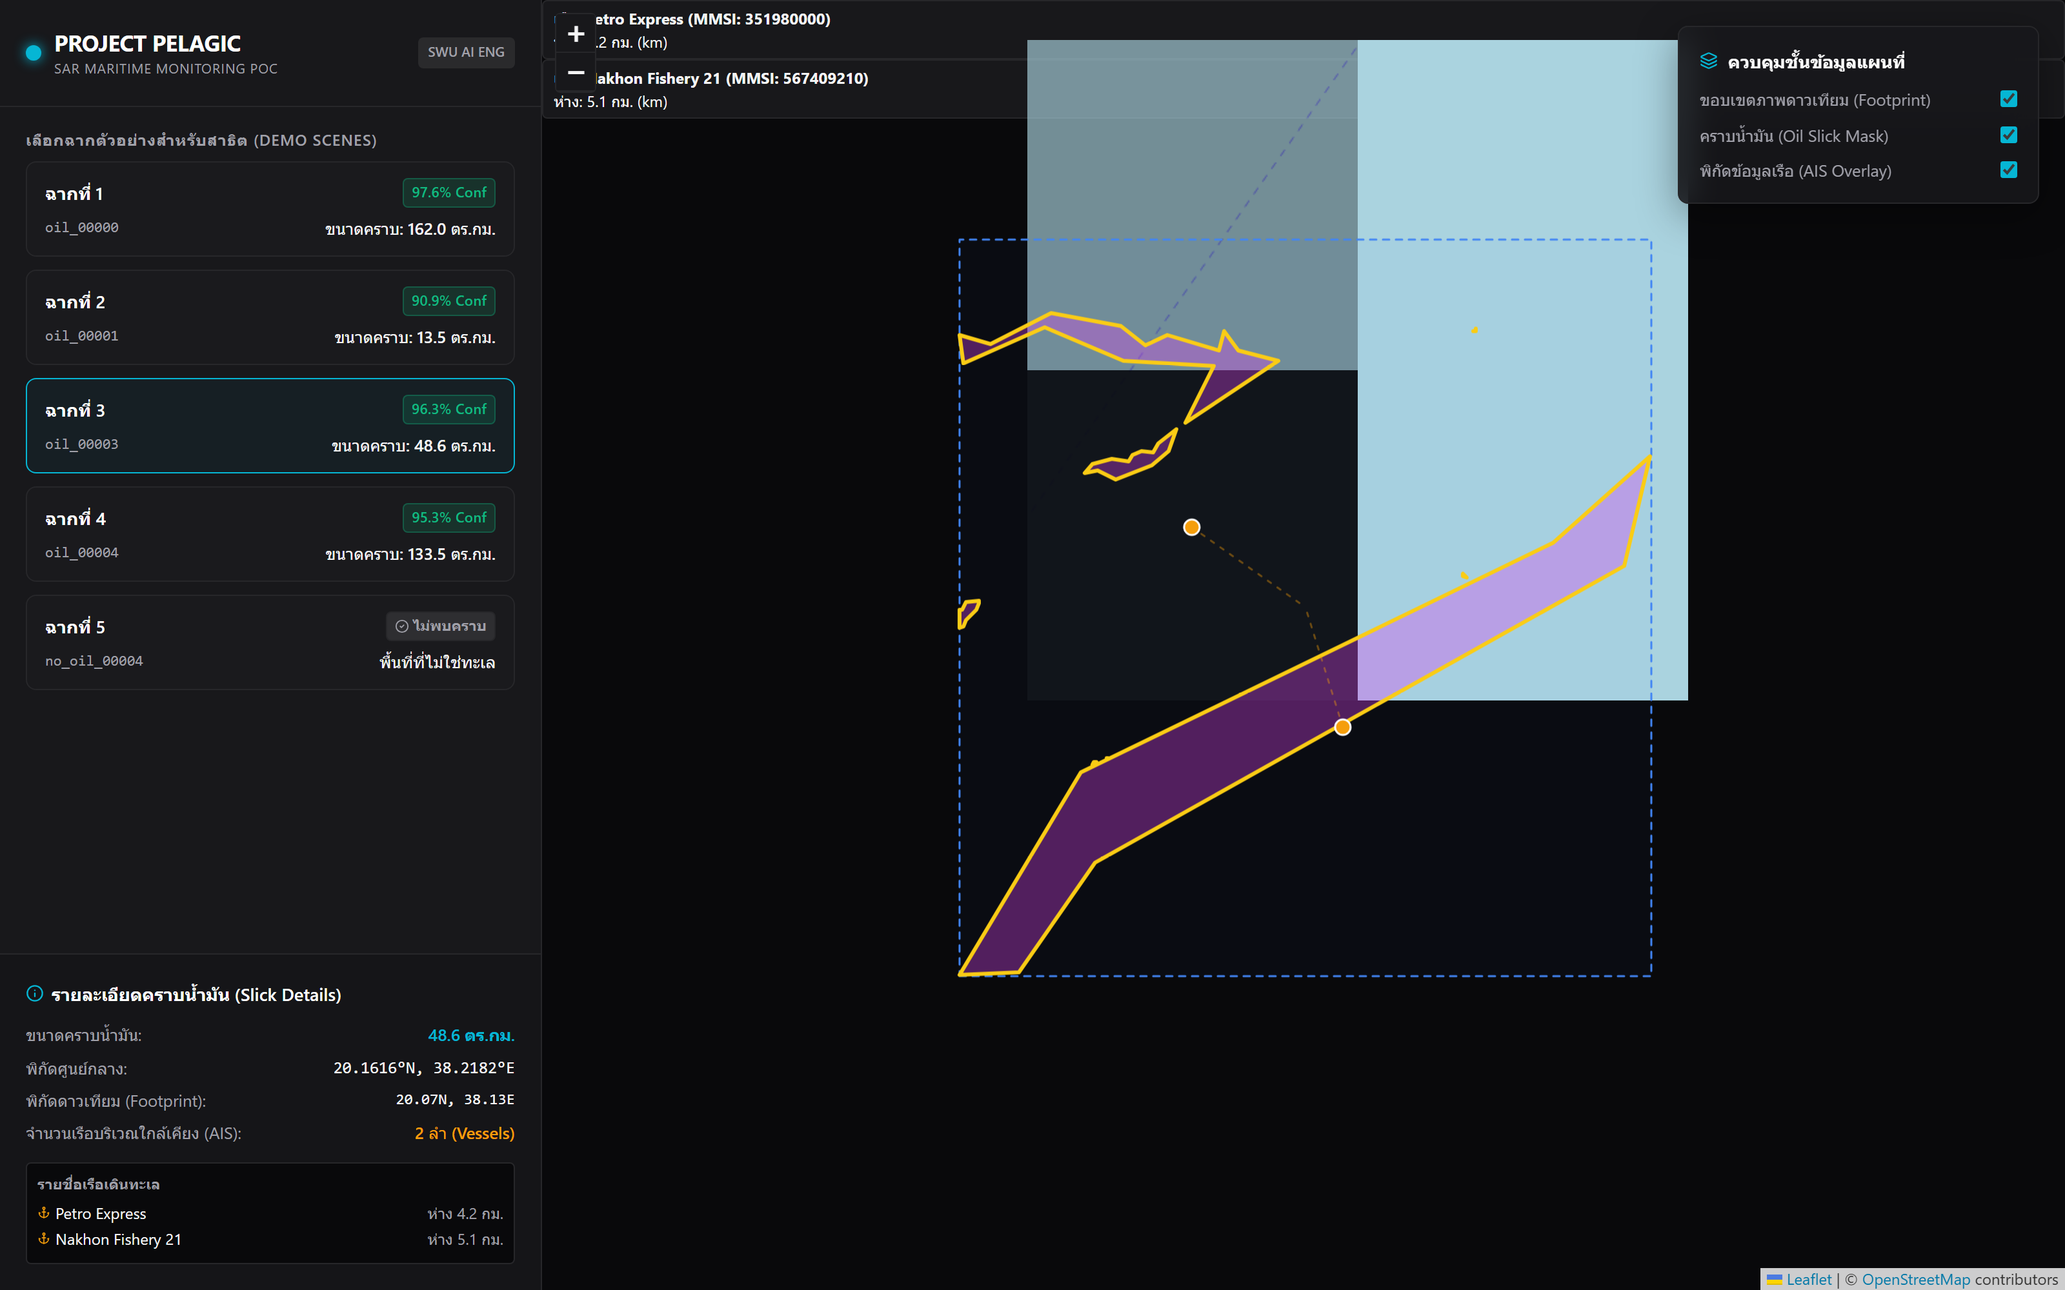
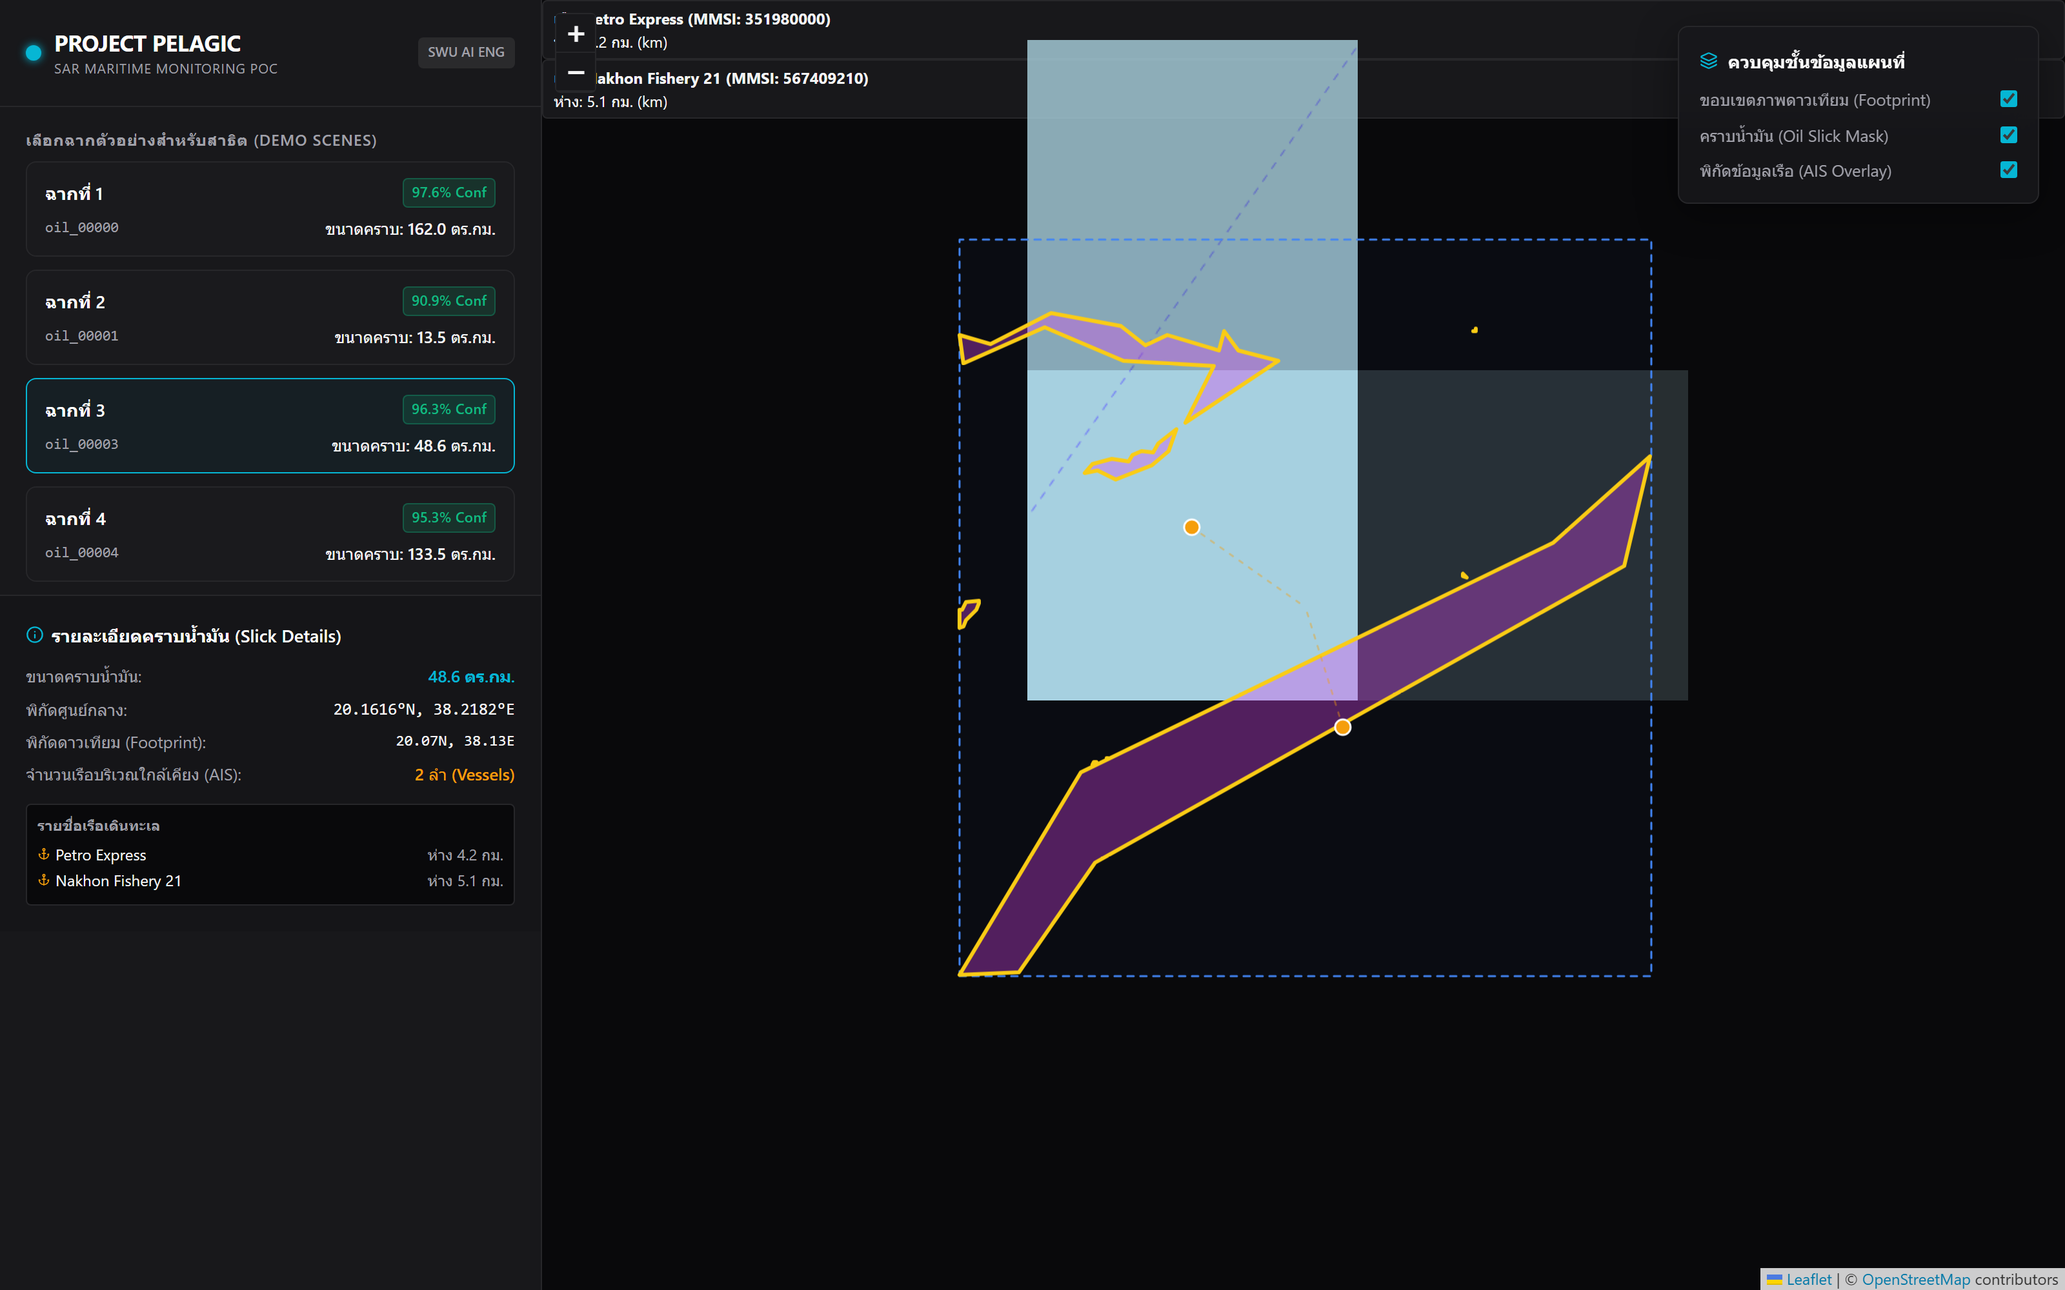
Drop to 4-scene oil-only demo lineup
Final decision after the no_oil investigation (Track I): every no_oil
holdout scene is either genuinely land (no_oil_00002/3/4/6/7/8/9), a live
false positive on real water (no_oil_00000/1), or a broken/corrupted file
(no_oil_00005) -- no clean "real water, correctly suppressed" scene exists
in this holdout set. Rather than show a land scene or a live false
positive, the live demo is now oil_00000/1/3/4 only.

- DEMO_SCENES trimmed to the 4 oil scenes; removed the now-dead no-oil UI
  branches (isNoOil text, the "non-maritime abstains" copy, the "no slick
  found" card badge state, the now-unused CheckCircle2 icon import).
- Restructured the sidebar so the scene list and details panel share one
  scrollable flex region -- with only 4 cards the list no longer fills the
  old flex:1 area, which was opening a gap between the last card and the
  details panel that read as "something's missing"; leftover space now
  settles naturally below the details panel instead.
- Verified all 4 scenes end-to-end (correct area badges, coordinates,
  fitBounds contour framing, no console errors) and re-captured the Track H
  fallback screenshots against the updated 4-card layout; dropped the
  no_oil_00004 fallback screenshot entirely rather than keeping it
  mislabeled or confusing during a live-demo emergency.
- docs/deck_assets/MANIFEST.md and docs/status.md updated to reflect the
  4-scene lineup, keeping the no_oil investigation writeup intact as the
[…]

diff --git a/frontend/src/App.jsx b/frontend/src/App.jsx
@@ -1,28 +1,26 @@
 import React, { useState, useEffect } from 'react';
 import { MapContainer, TileLayer, Polygon, CircleMarker, Polyline, useMap } from 'react-leaflet';
-import { ShieldAlert, Layers, Anchor, Loader2, Info, CheckCircle2 } from 'lucide-react';
+import { ShieldAlert, Layers, Anchor, Loader2, Info } from 'lucide-react';
 import 'leaflet/dist/leaflet.css';
 
 const API_BASE = 'http://localhost:8000';
 
-// The 5 verified demo scenes for the live presentation, in the fixed order
+// The 4 verified demo scenes for the live presentation, in the fixed order
 // they should be presented -- not the raw DB history, which also contains
 // stale/dummy seed rows and would let a presenter accidentally click into
 // an unverified scene mid-demo.
+//
+// No no_oil scene: every no_oil holdout scene turned out to be either
+// genuinely land (no_oil_00002/3/4/6/7/8/9), a live false positive on real
+// water (no_oil_00000/1), or a broken/corrupted file (no_oil_00005) -- see
+// docs/deck_assets/MANIFEST.md for the full investigation. There's no
+// "real water, correctly suppressed" scene available in this holdout set,
+// so the live demo is oil-detection scenes only.
 const DEMO_SCENES = [
-  { id: 'oil_00000', title: 'ฉากที่ 1', category: 'oil' },
-  { id: 'oil_00001', title: 'ฉากที่ 2', category: 'oil' },
-  { id: 'oil_00003', title: 'ฉากที่ 3', category: 'oil' },
-  { id: 'oil_00004', title: 'ฉากที่ 4', category: 'oil' },
-  // Reverted from no_oil_00007 (and no_oil_00001 before that): reverse-geocoded
-  // every no_oil holdout scene's real coordinate and found "genuinely open
-  // water" and "live v2 model correctly outputs ~0% confidence" never overlap
-  // in this 10-scene set -- the only two confirmed-water scenes (no_oil_00000,
-  // no_oil_00001) both trigger live false positives (~67%, ~66%), and every
-  // scene the model correctly suppresses is on land. no_oil_00004 is a
-  // confirmed non-maritime (land) scene the model correctly abstains on --
-  // labeled as such below rather than mislabeled "clean water".
-  { id: 'no_oil_00004', title: 'ฉากที่ 5', category: 'no_oil' },
+  { id: 'oil_00000', title: 'ฉากที่ 1' },
+  { id: 'oil_00001', title: 'ฉากที่ 2' },
+  { id: 'oil_00003', title: 'ฉากที่ 3' },
+  { id: 'oil_00004', title: 'ฉากที่ 4' },
 ];
 
 // Real ground area per the GeoJSON polygon's own lat/lon extent -- same
@@ -161,9 +159,9 @@ export default function App() {
     fetchDetections();
   }, []);
 
-  // 3. Select one of the 5 verified demo scenes. Switches instantly to the
+  // 3. Select one of the 4 verified demo scenes. Switches instantly to the
   // cached detection if it's already in the DB (the normal demo path, since
-  // all 5 are pre-seeded); only falls back to a live U-Net inference call if
+  // all 4 are pre-seeded); only falls back to a live U-Net inference call if
   // a scene is somehow missing (e.g. a freshly reset database).
   const handleSelectScene = async (sceneId) => {
     const existing = detections.find(d => d.scene_id === sceneId);
@@ -275,18 +273,21 @@ export default function App() {
           </div>
         )}
 
-        {/* Demo Scene Selector -- fixed to the 5 verified scenes only */}
+        {/* Demo Scene Selector -- fixed to the 4 verified oil-detection scenes only.
+            Scene list + details panel share one scrollable region so any
+            leftover vertical space (a 4-card list is shorter than most
+            viewports) settles below the details panel instead of opening a
+            gap between the last card and the panel's top border. */}
+        <div style={{ flex: 1, overflowY: 'auto', display: 'flex', flexDirection: 'column' }}>
         <div style={{ fontSize: '0.75rem', textTransform: 'uppercase', letterSpacing: '0.05em', color: 'var(--text-muted)', margin: '16px 20px 8px 20px', fontWeight: 600 }}>
           เลือกฉากตัวอย่างสำหรับสาธิต (Demo Scenes)
         </div>
 
-        <div style={{ flex: 1, overflowY: 'auto', padding: '0 20px' }}>
+        <div style={{ padding: '0 20px' }}>
           {DEMO_SCENES.map(scene => {
             const det = detections.find(d => d.scene_id === scene.id);
             const isActive = selectedDet && selectedDet.scene_id === scene.id;
-            const isNoOil = scene.category === 'no_oil';
-            const detected = hasRealDetection(det);
-            const areaKm2 = detected ? calcSlickAreaKm2(det) : 0;
+            const areaKm2 = det ? calcSlickAreaKm2(det) : 0;
 
             return (
               <div
@@ -314,20 +315,12 @@ export default function App() {
                     }}>
                       รอวิเคราะห์
                     </span>
-                  ) : detected ? (
+                  ) : (
                     <span style={{
                       fontSize: '0.7rem', fontWeight: 600, padding: '2px 6px', borderRadius: '4px',
                       backgroundColor: 'rgba(16, 185, 129, 0.15)', color: 'var(--success)', border: '1px solid rgba(16, 185, 129, 0.3)'
                     }}>
                       {(det.confidence_score * 100).toFixed(1)}% Conf
-                    </span>
-                  ) : (
-                    <span style={{
-                      fontSize: '0.7rem', fontWeight: 600, padding: '2px 6px', borderRadius: '4px',
-                      display: 'flex', alignItems: 'center', gap: '3px',
-                      backgroundColor: 'rgba(161, 161, 170, 0.15)', color: 'var(--text-muted)', border: '1px solid var(--border-color)'
-                    }}>
-                      <CheckCircle2 size={11} /> ไม่พบคราบ
                     </span>
                   )}
                 </div>
@@ -336,11 +329,7 @@ export default function App() {
                     {scene.id}
                   </span>
                   <span style={{ fontWeight: 500 }}>
-                    {isNoOil
-                      ? 'พื้นที่ที่ไม่ใช่ทะเล'
-                      : detected
-                        ? `ขนาดคราบ: ${areaKm2.toFixed(1)} ตร.กม.`
-                        : '—'}
+                    {det ? `ขนาดคราบ: ${areaKm2.toFixed(1)} ตร.กม.` : '—'}
                   </span>
                 </div>
               </div>
@@ -357,15 +346,9 @@ export default function App() {
             <div style={{ display: 'flex', flexDirection: 'column', gap: '6px', fontSize: '0.8rem' }}>
               <div style={{ display: 'flex', justifyContent: 'space-between' }}>
                 <span style={{ color: 'var(--text-muted)' }}>ขนาดคราบน้ำมัน:</span>
-                {hasRealDetection(selectedDet) ? (
-                  <span style={{ fontWeight: 600, color: 'var(--primary)' }}>
-                    {calcSlickAreaKm2(selectedDet).toFixed(1)} ตร.กม.
-                  </span>
-                ) : (
-                  <span style={{ fontWeight: 600, color: 'var(--success)', display: 'flex', alignItems: 'center', gap: '4px' }}>
-                    <CheckCircle2 size={13} /> ไม่พบคราบน้ำมัน — พื้นที่ที่ไม่ใช่ทะเล (Non-maritime, model correctly abstains)
-                  </span>
-                )}
+                <span style={{ fontWeight: 600, color: 'var(--primary)' }}>
+                  {calcSlickAreaKm2(selectedDet).toFixed(1)} ตร.กม.
+                </span>
               </div>
               <div style={{ display: 'flex', justifyContent: 'space-between' }}>
                 <span style={{ color: 'var(--text-muted)' }}>พิกัดศูนย์กลาง:</span>
@@ -403,6 +386,7 @@ export default function App() {
             </div>
           </div>
         )}
+        </div>
       </div>
 
       {/* 4. Right Map Panel */}

diff --git a/docs/deck_assets/MANIFEST.md b/docs/deck_assets/MANIFEST.md
@@ -46,11 +46,11 @@ Curated selection — 5 of the 14 available `holdout_v1/v2_viz_*.png` files, not
 
 ## demo_fallback/
 
-Live-demo safety net, not a primary slide asset: real screenshots of the actual running Track G demo page (all 5 verified scenes + one scene-switch-in-progress shot), captured for the presentation only in case the live app can't run on the day (projector/wifi/backend failure) — not meant to replace the live demo when it works.
+Live-demo safety net, not a primary slide asset: real screenshots of the actual running demo page (all 4 verified scenes + one scene-switch-in-progress shot), captured for the presentation only in case the live app can't run on the day (projector/wifi/backend failure) — not meant to replace the live demo when it works.
 
-**Map-framing fix (Track I) and its side finding.** The map used to hold a fixed zoom centered on each scene regardless of the detected polygon's real size — measured directly (on-screen pixel bounding box of the rendered contour) at 33×41px inside a 1180×1000 map viewport for `oil_00000`'s 162 km² polygon, i.e. an icon-sized dot no matter the scene. Fixed by fitting the camera to each detection's real coordinate bounding box (`Leaflet.fitBounds`, 80px padding, 14 max zoom) instead of a fixed zoom + pan; re-measured after the fix at 45–66% of the viewport across all 4 oil scenes (13.5–162 km² range) — screenshots in this folder reflect the fixed framing.
+**Map-framing fix (Track I).** The map used to hold a fixed zoom centered on each scene regardless of the detected polygon's real size — measured directly (on-screen pixel bounding box of the rendered contour) at 33×41px inside a 1180×1000 map viewport for `oil_00000`'s 162 km² polygon, i.e. an icon-sized dot no matter the scene. Fixed by fitting the camera to each detection's real coordinate bounding box (`Leaflet.fitBounds`, 80px padding, 14 max zoom) instead of a fixed zoom + pan; re-measured after the fix at 45–66% of the viewport across all 4 oil scenes (13.5–162 km² range) — screenshots in this folder reflect the fixed framing.
 
-Fixing the framing also *revealed* something the old zoomed-out view had been hiding: `no_oil_00004`'s real coordinates (36.2154°N, 36.6159°E) are inland Turkey (Reyhanlı, Hatay Province), not open water — confirmed by rendering the raw SAR `.tif` directly (a river-valley town, not a water signature) and by reverse-geocoding. Looking for a genuine open-water replacement surfaced a more general finding: across all 10 `no_oil` holdout scenes (reverse-geocoded + spot-checked against the OSM basemap, not just eyeballed from SAR grayscale, which turned out to be an unreliable way to tell calm water from vegetation), **"confirmed open water" and "the live v2 checkpoint correctly outputs ~0% confidence" never co-occur in this scene set** — the two confirmed-water scenes (`no_oil_00000`, `no_oil_00001`) both trigger live false positives (67.8%, 66.6%), and every scene the model correctly suppresses (`no_oil_00002/3/4/6/7/8/9`) is on land. (`no_oil_00005`'s source file is also separately broken — an all-zero array — and returns 99% confidence on that garbage input, a third, unrelated data-integrity issue.) Scene 5 in the live demo lineup stays on `no_oil_00004`, now honestly labeled as a non-maritime scene the model correctly abstains on rather than "clean water" — this is a real, verified characteristic of the current holdout set + `model_real_v2_best.pt` checkpoint, not a framing bug, and would need either a new held-out water scene or a checkpoint fix to resolve properly.
+**Why there's no no-oil scene (Track I → Track J).** Fixing the framing *revealed* something the old zoomed-out view had been hiding: `no_oil_00004` (the demo's original "clean water" scene) has real coordinates (36.2154°N, 36.6159°E) in inland Turkey (Reyhanlı, Hatay Province), not open water — confirmed by rendering the raw SAR `.tif` directly (a river-valley town, not a water signature) and by reverse-geocoding. Looking for a genuine open-water replacement surfaced a more general, harder problem: across all 10 `no_oil` holdout scenes (reverse-geocoded + spot-checked against the OSM basemap, not just eyeballed from SAR grayscale, which turned out to be an unreliable way to tell calm water from vegetation), **"confirmed open water" and "the live v2 checkpoint correctly outputs ~0% confidence" never co-occur in this scene set** — the two confirmed-water scenes (`no_oil_00000`, `no_oil_00001`) both trigger live false positives (67.8%, 66.6%), and every scene the model correctly suppresses (`no_oil_00002/3/4/6/7/8/9`) is on land. (`no_oil_00005`'s source file is also separately broken — an all-zero array — and returns 99% confidence on that garbage input, a third, unrelated data-integrity issue.) An intermediate round kept `no_oil_00004` in the lineup, honestly relabeled as a non-maritime scene the model correctly abstains on rather than "clean water" — the final decision (Track J) was to drop it from the live demo entirely instead: there's no scene in this holdout set that is both real open water and correctly handled by the current checkpoint, so the live demo is oil-detection scenes only (`oil_00000/1/3/4`). This is a real, verified characteristic of the current holdout set + `model_real_v2_best.pt` checkpoint, not a framing bug — worth keeping in mind for Q&A, and would need either a new held-out water scene or a checkpoint fix to resolve properly.
 
 ---
 

diff --git a/docs/status.md b/docs/status.md
@@ -48,9 +48,22 @@ This document captures the current status of the project, including recent resol
 
 ---
 
-## Demo Lineup — Verified Fresh This Session (Session 5)
+## Demo Lineup — 4 Oil-Detection Scenes Only (Updated in the presentation-prep sessions after Session 5)
 
-Re-verified end-to-end after a full DB reset and backend restart, not cited from a prior session's result:
+The live demo dropped from 5 scenes to 4, oil-detection only. `no_oil_00004` was
+in the lineup as the "clean water, no oil" example, but a later round fixing
+the map's fixed-zoom framing (it made every detected slick icon-sized
+regardless of real area) also exposed that `no_oil_00004`'s real coordinates
+are inland, not water. Investigating every `no_oil` holdout scene as a
+replacement found a harder problem: across all 10 `no_oil` scenes,
+**genuinely open water and the live v2 checkpoint correctly outputting ~0%
+confidence never co-occur** — the two confirmed-water scenes (`no_oil_00000`,
+`no_oil_00001`) both false-positive live (~67.8%, ~66.6%), every scene the
+model correctly suppresses is on land, and one file (`no_oil_00005`) is a
+broken all-zero array. Full investigation, including how each scene was
+checked (raw SAR content + reverse geocoding): `docs/deck_assets/MANIFEST.md`.
+Rather than show a land scene mislabeled as water, or a live false positive,
+the demo is now oil-detection scenes only:
 
 | Scene | Confidence | Polygons | Real coordinates |
 |---|---|---|---|
@@ -58,9 +71,22 @@ Re-verified end-to-end after a full DB reset and backend restart, not cited from
 | oil_00001 | 90.9043% | 27 | 35.4087N, 34.9938E |
 | oil_00003 | 96.3351% | 9 | 20.1616N, 38.2182E |
 | oil_00004 | 95.2886% | 228 | 35.8224N, 35.0308E |
-| no_oil_00004 | 0.0000% | 1 (fallback box) | 36.2154N, 36.6159E |
 
-All values match the last-confirmed numbers exactly (zero regression), and coordinates are real and vary correctly per scene (confirmed independently against `docs/holdout_scene_coordinates.json`). Confirmed in-browser: switching scenes re-centers the Leaflet map and re-renders overlay geometry, not just the API response.
+Values match the last-confirmed numbers exactly (zero regression), and
+coordinates are real and vary correctly per scene (confirmed independently
+against `docs/holdout_scene_coordinates.json`). Confirmed in-browser:
+switching scenes re-centers/re-zooms the Leaflet map to fit the real detected
+polygon's bounding box (not a fixed zoom) and re-renders overlay geometry,
+not just the API response.
+
+**Also fixed since this table was first written**: the "ขนาดคราบ" (slick
+size) badge described as a hardcoded fake `8.5`/`14.5` km² value in Recent
+Resolution #8 and Open Issue #2 below is no longer accurate — it's since been
+wired to a real shoelace-formula area computed from each detection's own
+GeoJSON polygon (same lat-corrected km/deg method used elsewhere in this
+repo). Left the original entries below as-is rather than rewriting session
+history; treat this note as the current source of truth on that specific
+item.
 
 ---
 
